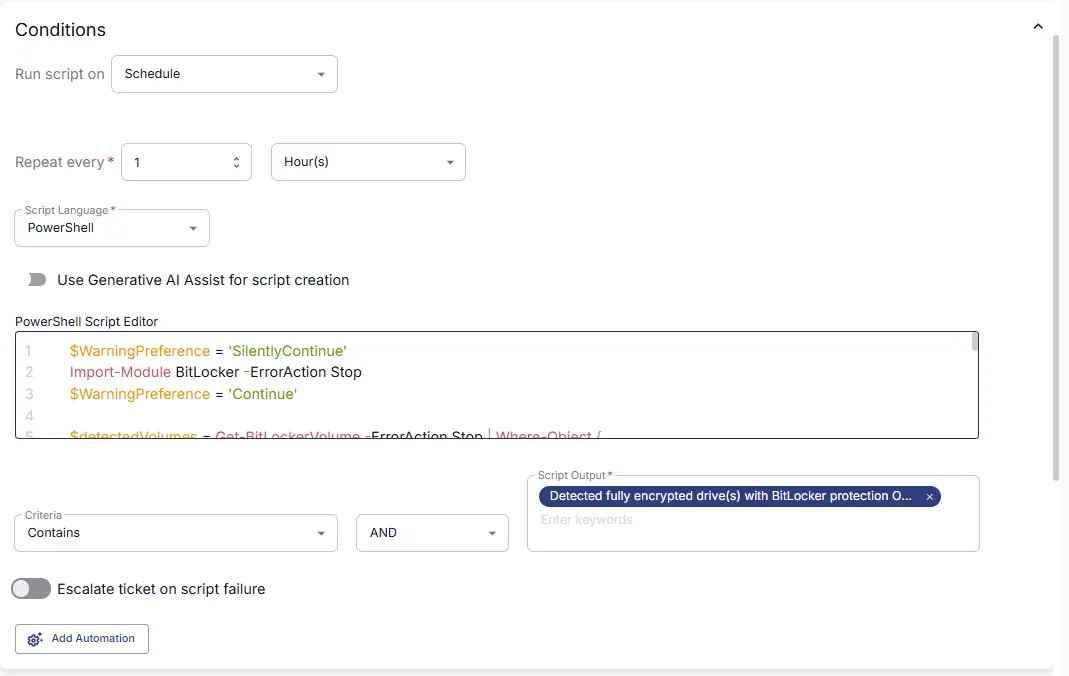
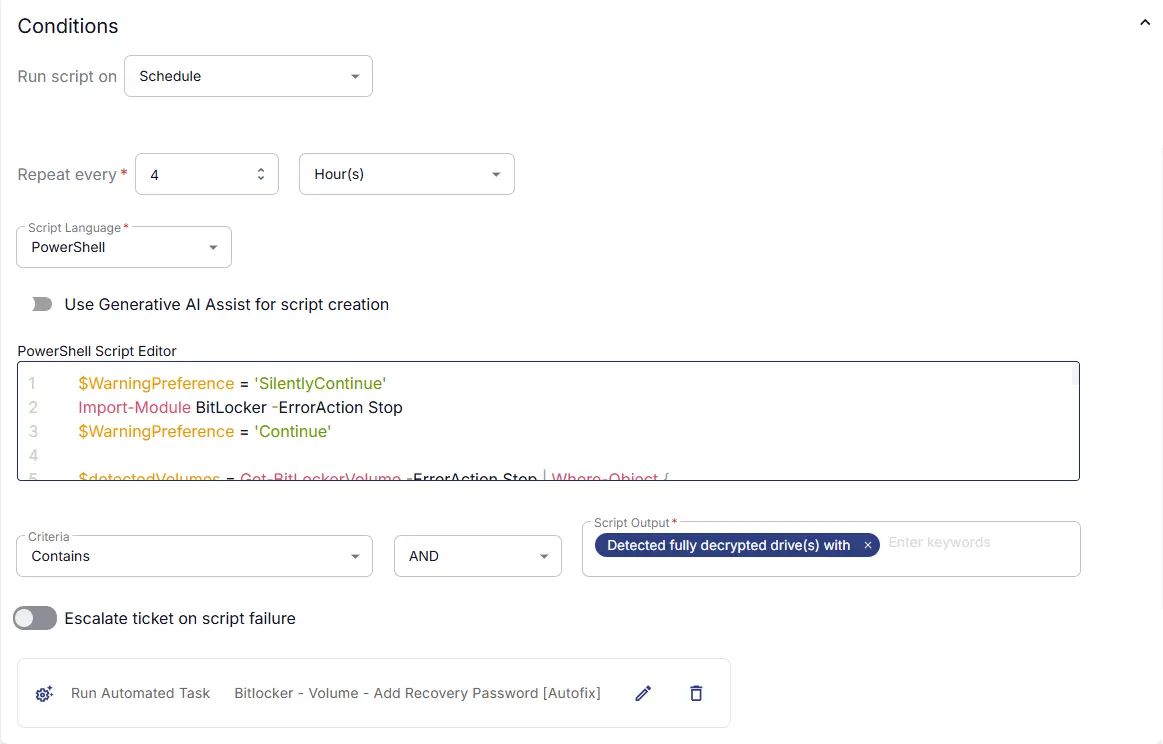
QA - U[date
- Fixed monitor configuration screenshots
 - Fixed script output in the monitor
- Updated solution changelog to show changes in the monitor

diff --git a/docs/cwrmm/monitors/bitlocker-missing-key-protectors.md b/docs/cwrmm/monitors/bitlocker-missing-key-protectors.md
@@ -9,7 +9,7 @@ tags: ['bitlocker', 'security', 'auditing']
 draft: false
 unlisted: false
 last_update:
-  date: 2026-08-05
+  date: 2026-08-10
 ---
 
 ## Summary
@@ -77,7 +77,7 @@ return "No affected BitLocker volumes found."
 
 - **Criteria:**  `Contains`  
 - **Operator:** `AND`  
-- **Script Output:**  `Detected fully encrypted drive(s) with BitLocker protection OFF`  
+- **Script Output:**  `Detected fully decrypted drive(s) with BitLocker protection OFF`  
 - **Escalate ticket on script failure:** `False`  
 - **Add Automation:**  `BitLocker - Volume - Add Recovery Password [Autofix]`
 
@@ -99,7 +99,7 @@ return "No affected BitLocker volumes found."
 
 ## Changelog
 
-### 2026-08-05
+### 2026-08-10
 
 - Added Automation to the monitor. Tickets will be generated from the Automation task and not monitor anymore.
 

diff --git a/docs/solutions/bitlocker-status-and-key-audit.md b/docs/solutions/bitlocker-status-and-key-audit.md
@@ -9,7 +9,7 @@ tags: ['bitlocker', 'security', 'auditing']
 draft: false
 unlisted: false
 last_update:
-  date: 2026-08-05
+  date: 2026-08-10
 ---
 
 ## Purpose
@@ -110,9 +110,10 @@ Schedule the [BitLocker Status and Recovery Key Audit](/docs/9682b5a8-d821-43f6-
 
 ## Changelog
 
-### 2026-08-05
+### 2026-08-10
 
 - Added the autofix script  [BitLocker - Volume - Add Recovery Password [Autofix]](/docs/2d53132f-4ab7-47f1-99b9-2469e50e50ad) to safely reinitialize BitLocker on the system drive when BitLocker is enabled but the volume is missing a valid key protector and the affected volume is the operating system drive (`C:`).
+- Updated monitor [BitLocker - Missing Key Protectors](/docs/c921a900-73da-40e2-9507-ed64ba38fb46) to run the newly created task as and auto-fix instead of ticket creation.
 
 ### 2026-06-29
 

diff --git a/docs/cwrmm/tasks/bitlocker-volume-add-recovery-password-autofix.md b/docs/cwrmm/tasks/bitlocker-volume-add-recovery-password-autofix.md
@@ -9,7 +9,7 @@ tags: ['encryption', 'security', 'setup', 'windows']
 draft: false
 unlisted: false
 last_update:
-  date: 2026-08-05
+  date: 2026-08-10
 ---
 
 ## Summary
@@ -329,6 +329,6 @@ This script is intended to run as an autofix Script with [Monitor : BitLocker - 
 
 ## Changelog
 
-### 2026-08-05
+### 2026-08-10
 
 - Initial version of the document
